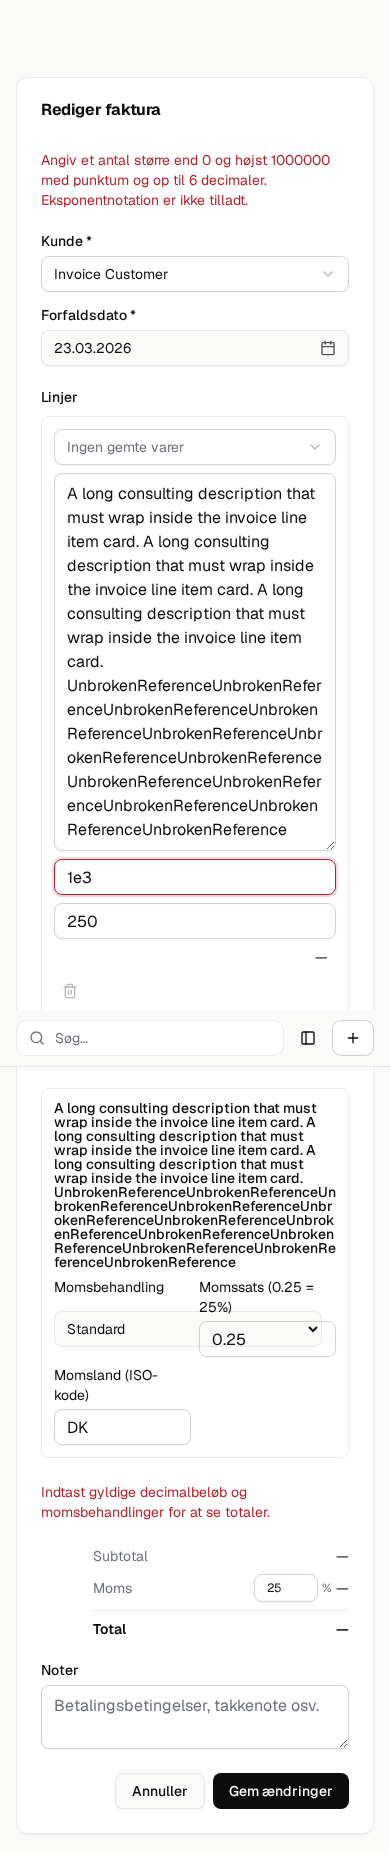
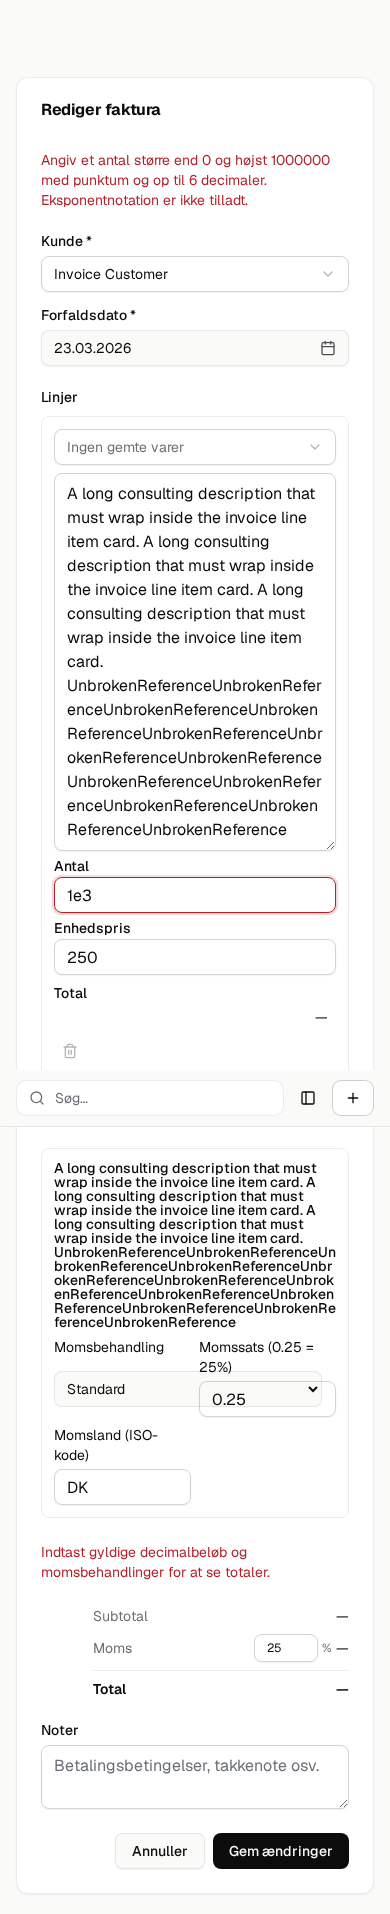
fix(invoices): label mobile line item fields (QUI-35)

diff --git a/apps/oss/src/routes/_app/invoices/$invoiceId.tsx b/apps/oss/src/routes/_app/invoices/$invoiceId.tsx
@@ -624,30 +624,41 @@ function InvoiceDetailPage() {
                       value={item.description}
                       onChange={(e) => updateEditItem(index, "description", e.target.value)}
                     />
-                    <Input
-                      type="text"
-                      inputMode="decimal"
-                      aria-label={t("docForm.column.qty")}
-                      aria-invalid={!quantityDecimalSchema.safeParse(item.quantity).success}
-                      disabled={!!item.deliverableId}
-                      value={item.quantity || ""}
-                      onChange={(e) =>
-                        updateEditItem(index, "quantity", e.target.value)
-                      }
-                    />
-                    <Input
-                      type="number"
-                      min="0"
-                      step="0.0001"
-                      disabled={!!item.deliverableId}
-                      value={item.unitPrice || ""}
-                      onChange={(e) =>
-                        updateEditItem(index, "unitPrice", e.target.value)
-                      }
-                    />
-                    <span className="num text-sm text-right pr-2">
-                      {preview.result ? formatCurrency(item.deliverableId ? (invoice.pricesIncludeTax ? item.frozenGross ?? 0 : item.frozenNet ?? 0) : Number(preview.result.lines[editItems.slice(0, index + 1).filter(line => !line.deliverableId).length - 1]?.[invoice.pricesIncludeTax ? "gross" : "net"] ?? "0"), invoice.currency, locale) : "—"}
-                    </span>
+                    <div className="grid min-w-0 gap-1">
+                      <Label htmlFor={`invoice-edit-quantity-${index}`} className="md:sr-only">{t("docForm.column.qty")}</Label>
+                      <Input
+                        id={`invoice-edit-quantity-${index}`}
+                        type="text"
+                        inputMode="decimal"
+                        aria-label={t("docForm.column.qty")}
+                        aria-invalid={!quantityDecimalSchema.safeParse(item.quantity).success}
+                        disabled={!!item.deliverableId}
+                        value={item.quantity || ""}
+                        onChange={(e) =>
+                          updateEditItem(index, "quantity", e.target.value)
+                        }
+                      />
+                    </div>
+                    <div className="grid min-w-0 gap-1">
+                      <Label htmlFor={`invoice-edit-unitPrice-${index}`} className="md:sr-only">{t("docForm.column.unitPrice")}</Label>
+                      <Input
+                        id={`invoice-edit-unitPrice-${index}`}
+                        type="number"
+                        min="0"
+                        step="0.0001"
+                        disabled={!!item.deliverableId}
+                        value={item.unitPrice || ""}
+                        onChange={(e) =>
+                          updateEditItem(index, "unitPrice", e.target.value)
+                        }
+                      />
+                    </div>
+                    <div className="grid min-w-0 gap-1">
+                      <span id={`invoice-edit-total-${index}`} className="text-sm font-medium md:sr-only">{t("docForm.column.total")}</span>
+                      <output aria-labelledby={`invoice-edit-total-${index}`} className="num text-sm text-right pr-2">
+                        {preview.result ? formatCurrency(item.deliverableId ? (invoice.pricesIncludeTax ? item.frozenGross ?? 0 : item.frozenNet ?? 0) : Number(preview.result.lines[editItems.slice(0, index + 1).filter(line => !line.deliverableId).length - 1]?.[invoice.pricesIncludeTax ? "gross" : "net"] ?? "0"), invoice.currency, locale) : "—"}
+                      </output>
+                    </div>
                     <Button
                       type="button"
                       variant="ghost"

diff --git a/apps/oss/src/routes/_app/invoices/new.tsx b/apps/oss/src/routes/_app/invoices/new.tsx
@@ -428,28 +428,39 @@ function NewInvoicePage() {
                     value={item.description}
                     onChange={(e) => updateItem(index, "description", e.target.value)}
                   />
-                  <Input
-                    type="text"
-                    inputMode="decimal"
-                    aria-label={t("docForm.column.qty")}
-                    aria-invalid={!quantityDecimalSchema.safeParse(item.quantity).success}
-                    value={item.quantity || ""}
-                    onChange={(e) =>
-                      updateItem(index, "quantity", e.target.value)
-                    }
-                  />
-                  <Input
-                    type="number"
-                    min="0"
-                    step="0.0001"
-                    value={item.unitPrice || ""}
-                    onChange={(e) =>
-                      updateItem(index, "unitPrice", e.target.value)
-                    }
-                  />
-                  <span className="num text-sm text-right pr-2">
-                    {preview.result ? formatCurrencyIntl(Number(preview.result?.lines[index]?.[pricesIncludeTax ? "gross" : "net"] ?? "0"), currency, locale) : "—"}
-                  </span>
+                  <div className="grid min-w-0 gap-1">
+                    <Label htmlFor={`invoice-new-quantity-${index}`} className="md:sr-only">{t("docForm.column.qty")}</Label>
+                    <Input
+                      id={`invoice-new-quantity-${index}`}
+                      type="text"
+                      inputMode="decimal"
+                      aria-label={t("docForm.column.qty")}
+                      aria-invalid={!quantityDecimalSchema.safeParse(item.quantity).success}
+                      value={item.quantity || ""}
+                      onChange={(e) =>
+                        updateItem(index, "quantity", e.target.value)
+                      }
+                    />
+                  </div>
+                  <div className="grid min-w-0 gap-1">
+                    <Label htmlFor={`invoice-new-unitPrice-${index}`} className="md:sr-only">{t("docForm.column.unitPrice")}</Label>
+                    <Input
+                      id={`invoice-new-unitPrice-${index}`}
+                      type="number"
+                      min="0"
+                      step="0.0001"
+                      value={item.unitPrice || ""}
+                      onChange={(e) =>
+                        updateItem(index, "unitPrice", e.target.value)
+                      }
+                    />
+                  </div>
+                  <div className="grid min-w-0 gap-1">
+                    <span id={`invoice-new-total-${index}`} className="text-sm font-medium md:sr-only">{t("docForm.column.total")}</span>
+                    <output aria-labelledby={`invoice-new-total-${index}`} className="num text-sm text-right pr-2">
+                      {preview.result ? formatCurrencyIntl(Number(preview.result?.lines[index]?.[pricesIncludeTax ? "gross" : "net"] ?? "0"), currency, locale) : "—"}
+                    </output>
+                  </div>
                   <Button
                     type="button"
                     variant="ghost"

diff --git a/apps/oss/tests/e2e/invoice-editor-qui35.spec.ts b/apps/oss/tests/e2e/invoice-editor-qui35.spec.ts
@@ -17,6 +17,21 @@ for (const locale of [danishLocale, usEnglishLocale]) {
     const da = locale.locale === "da-DK"
     const descriptionLabel = da ? "Beskrivelse" : "Description"
     const quantityLabel = da ? "Antal" : "Qty"
+    const unitPriceLabel = da ? "Enhedspris" : "Unit Price"
+    const assertMobileLabels = async () => {
+      const quantity = page.getByRole("textbox", { name: quantityLabel, exact: true })
+      const price = page.getByRole("spinbutton", { name: unitPriceLabel, exact: true })
+      for (const input of [quantity, price]) {
+        const id = await input.getAttribute("id")
+        expect(id).toBeTruthy()
+        await expect(page.locator(`label[for="${id}"]`)).toBeVisible()
+      }
+      const total = page.getByRole("status", { name: "Total", exact: true })
+      await expect(total).toBeVisible()
+      const labelId = await total.getAttribute("aria-labelledby")
+      expect(labelId).toBeTruthy()
+      await expect(page.locator(`[id="${labelId}"]`)).toBeVisible()
+    }
     const invalidMessage = da ? "Eksponentnotation er ikke tilladt." : "Exponent notation is not allowed."
     const description = "A long consulting description that must wrap inside the invoice line item card. ".repeat(3) + "UnbrokenReference".repeat(12)
     const mutations: string[] = []
@@ -36,6 +51,7 @@ for (const locale of [danishLocale, usEnglishLocale]) {
       await page.getByRole("button", { name: da ? "Rediger" : "Edit", exact: true }).click()
       const descriptionInput = page.getByRole("textbox", { name: descriptionLabel, exact: true })
       const quantity = page.getByRole("textbox", { name: quantityLabel, exact: true })
+      await assertMobileLabels()
       await descriptionInput.fill(description)
       // Test rendered geometry, including one long unbroken token, rather than CSS class names.
       await expect.poll(() => descriptionInput.evaluate((el: HTMLTextAreaElement) => {
@@ -85,6 +101,7 @@ for (const locale of [danishLocale, usEnglishLocale]) {
       await page.locator("button[data-day]").filter({ hasText: /^15$/ }).first().click()
       await page.keyboard.press("Escape")
       await page.getByRole("textbox", { name: descriptionLabel, exact: true }).fill(description)
+      await assertMobileLabels()
       await quantity.fill("1e3")
       await page.getByRole("button", { name: da ? "Gem som kladde" : "Save as Draft", exact: true }).click()
       await expect(page.getByText(invalidMessage, { exact: false })).toBeVisible()

diff --git a/docs/qa/qui-35/README.md b/docs/qa/qui-35/README.md
@@ -20,7 +20,8 @@ strings make no save request, then verifies `0.123456` survives save/reload and
 This branch starts at fetched OSS main `38a26531`. Main still has inline invoice
 editors. PR #132 introduces `lines-editor.tsx` and replaces those sections.
 After #132 lands, rebase this PR and apply the raw text quantity input,
-quantity-schema validation, textarea wrapping, and VAT-label wrapping to that
+quantity-schema validation, textarea wrapping, mobile-visible accessible quantity,
+unit-price and total labels, and VAT-label wrapping to that
 editor. Do not restore the inline editor or overwrite #132's send-flow changes.
 Rerun the regression and refresh screenshots if that integration changes the UI.
 
@@ -69,3 +70,39 @@ waiting for client readiness on `/invoices/new`. The remaining run was stopped
 when memory pressure rose again. This does not establish a passing create/PDF
 run or a passing pricing browser run. CI must confirm them. Owned servers and
 disposable containers were stopped and Fleet was released after each attempt.
+
+## Mobile-label repair at the reviewed head
+
+The Codex P2 finding on `ef5e2f62540735d5aff105daee00112405556b3f`
+[identified missing mobile labels](https://github.com/tielemans-dev/quits-oss/pull/148#discussion_r4253987992).
+Both existing inline invoice editors now pair quantity and unit price with native
+labels linked by `htmlFor`, and name the computed total output through
+`aria-labelledby`. Labels are visible below `md`; desktop keeps the shared header.
+Copy comes from the existing DA/EN catalog: Antal/Qty, Enhedspris/Unit Price, Total.
+No quantity validation, wrapping, shared selector repair, or other flow changed.
+
+The refreshed DA/EN edit PNGs show all three labels at 390 × 844, with the same
+synthetic fixture and real app paths documented above. They are edit evidence;
+there is no new English-create evidence or desktop evidence. No baseline was
+captured. The regression asserts visible associated labels in both edit and new.
+
+Repair verification:
+
+- Changed-file oxlint, application/quality typecheck, catalog and translation-memory
+  checks passed. Shared pricing tests passed: 37, one worker. Diff check passed.
+- Corrected targeted browser run: Danish passed the full create/edit regression.
+  English passed edit label, wrapping, invalid-input and persistence checks, then
+  Chromium crashed during `/invoices/new` navigation readiness. Result: 1 passed,
+  1 failed. This does not certify English create on the new head.
+- An initial run failed because the new test helper referenced an out-of-scope
+  quantity locator. That helper was corrected before the final run.
+- Runs used one outer Fleet job at a time and one browser/test worker. Memory and
+  I/O pressure rose during browser work. No further cold browser run or local
+  build was attempted. Full lint, unit/integration/browser suites and build are
+  left to CI; the parent owns CI watching and the next review request.
+- The owned Vite server and disposable PostgreSQL container were stopped by the
+  harness `finally`; Fleet was released. No VPS/#132 branch or code was touched.
+
+Keep this PR draft pending current-head CI, Codex review, and Ines approval.
+After #132 integration, preserve these labels alongside the original QUI-35
+wrapping and raw quantity validation, then rerun the regression and evidence.
